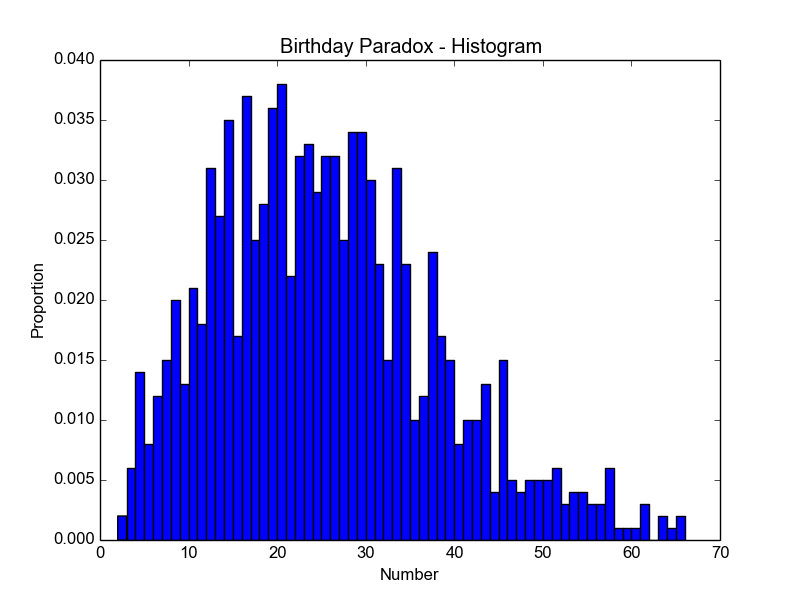
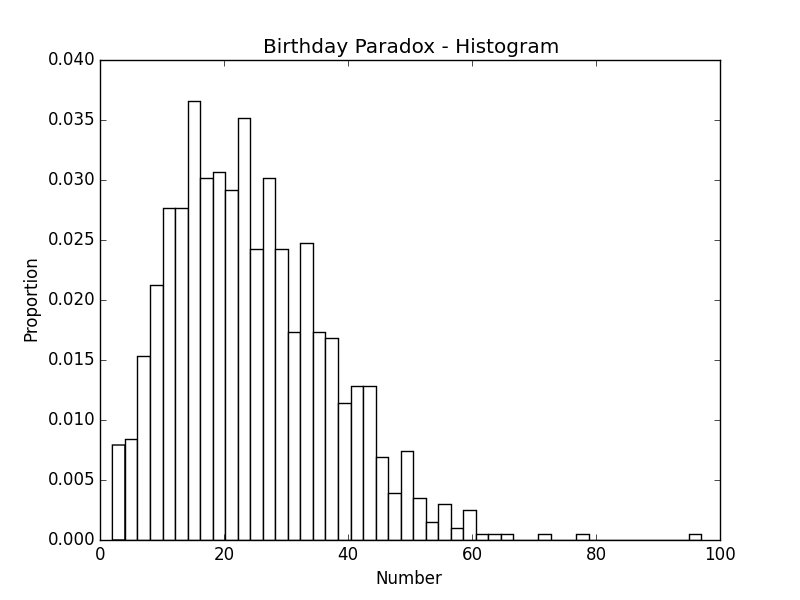
changed how the histograms are plotted - white with fewer bins

diff --git a/src/sim4/coin_toss_04.py b/src/sim4/coin_toss_04.py
@@ -61,7 +61,7 @@ def print_prob(results, tosses):
 def plot_results(results, heads, bias):
     plt.clf()
     plt.figure(1, facecolor = 'w')
-    plt.hist(results, bins = (np.max(results) - np.min(results)), normed = True)
+    plt.hist(results, color = 'white', bins = (np.max(results) - np.min(results)) / 2, normed = True)
     plt.title('Coint Toss: %s heads in a row - Histogram' % heads)
     plt.xlabel('Tosses')
     plt.ylabel('Proportion')

diff --git a/src/sim3/birthday_paradox_02.py b/src/sim3/birthday_paradox_02.py
@@ -48,7 +48,7 @@ def print_prob(numbers, people):
 def plot_results(numbers):
     plt.clf()
     plt.figure(1, facecolor = 'w')
-    plt.hist(numbers, bins = (np.max(numbers) - np.min(numbers)), normed = True)
+    plt.hist(numbers, color = 'white', bins = (np.max(numbers) - np.min(numbers)) / 2, normed = True)
     plt.title('Birthday Paradox - Histogram')
     plt.xlabel('Number')
     plt.ylabel('Proportion')
